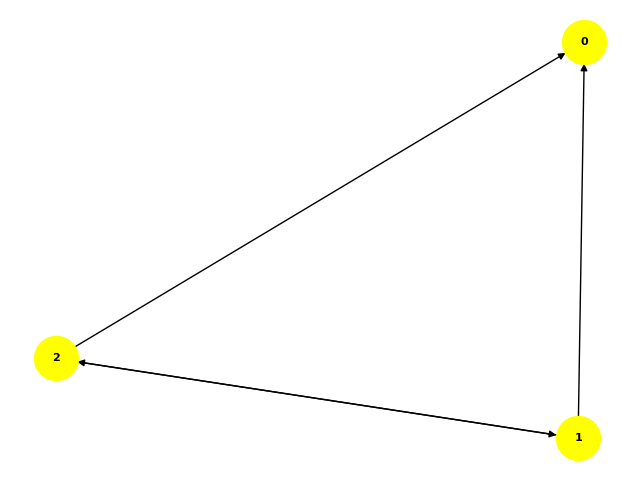
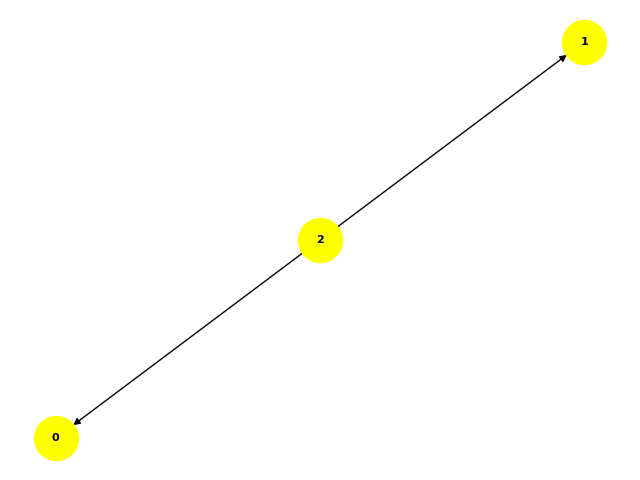
fixed bug: empty item-pairs list and envy graph in the end of exchange item function

diff --git a/Allocation.py b/Allocation.py
@@ -128,20 +128,24 @@ class W_maximal_allocation:
         max_oi = None
         max_oj = None
         max_r = -inf
-        for key in self.item_pairs.keys():  # key = agents pair
+        for key in self.item_pairs.keys():  # key = agents pair (i,j)
             i = int(key.split(",")[0])
             j = int(key.split(",")[1])
             pairs_list = self.item_pairs[key]
+            # print("i,j: ", i, j)
             for pair in pairs_list:
                 oi = pair[0]
                 oj = pair[1]
                 r = compute_r(i, j, oi, oj, self.I.utilities)
+                # print("r(", i, ",", j, ",", oi, ",", oj, ") = ", r)
                 if r > max_r:
                     max_r = r
                     max_i = i
                     max_j = j
                     max_oi = oi
                     max_oj = oj
+            # print("____________________________________")
+        # print("maximum: ", max_i, max_j, (max_oi, max_oj))
         return max_i, max_j, (max_oi, max_oj)
 
 
@@ -149,9 +153,17 @@ class W_maximal_allocation:
         """
         exchange the given pair between agents i and j
         """
+        # update the allocation
         oi = exchangeable_pair[0]
         oj = exchangeable_pair[1]
         oi_idx = self.A[i].index(oi)  # the index of oi in A[i]
         oj_idx = self.A[j].index(oj)  # the index of oj in A[j]
         self.A[i][oi_idx] = oj
         self.A[j][oj_idx] = oi
+
+        # empty item-pairs list
+        self.item_pairs = {}
+
+        # delete edges from the envy graph
+        edges = list(self.envy_graph.edges)  # all the edges in the current envy graph
+        self.envy_graph.remove_edges_from(edges)
